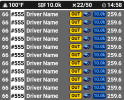
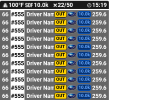
Added option to change width of Relative overlay

diff --git a/Plugin/SettingsControl.xaml b/Plugin/SettingsControl.xaml
@@ -18,7 +18,7 @@
 
 <UserControl x:Class="benofficial2.Plugin.SettingsControl" xmlns="http://schemas.microsoft.com/winfx/2006/xaml/presentation" xmlns:x="http://schemas.microsoft.com/winfx/2006/xaml" xmlns:converter="http://metro.mahapps.com/winfx/xaml/iconpacks" xmlns:d="http://schemas.microsoft.com/expression/blend/2008" xmlns:iconpacks="clr-namespace:MahApps.Metro.IconPacks;assembly=MahApps.Metro.IconPacks.Material" xmlns:local="clr-namespace:benofficial2.Plugin" xmlns:mc="http://schemas.openxmlformats.org/markup-compatibility/2006" xmlns:styles="clr-namespace:SimHub.Plugins.Styles;assembly=SimHub.Plugins" xmlns:ui="clr-namespace:SimHub.Plugins.UI;assembly=SimHub.Plugins" mc:Ignorable="d">
     <ScrollViewer>
-        <Grid Height="3614">
+        <Grid Height="4000">
             <Grid.ColumnDefinitions>
                 <ColumnDefinition Width="44*"/>
                 <ColumnDefinition Width="377*"/>
@@ -239,6 +239,11 @@
                             IsChecked="{Binding Plugin.Modules[RelativeModule].Settings.HighlightPlayerRow, Mode=TwoWay, UpdateSourceTrigger=PropertyChanged}">
                             Highlight player row
                         </styles:SHToggleCheckbox>
+
+                        <StackPanel Orientation="Horizontal">
+                            <ui:TitledSlider HorizontalAlignment="Left" Width="400" Title="Width (%)" Maximum="100" Minimum="0" Value="{Binding Plugin.Modules[RelativeModule].Settings.Width, Mode=TwoWay, UpdateSourceTrigger=PropertyChanged}"
+                                ToolTip="Maximum number of visible rows ahead and behind the player"/>
+                        </StackPanel>
 
                         <StackPanel Orientation="Horizontal">
                             <ui:TitledSlider HorizontalAlignment="Left" Width="400" Title="Max Row Count (Ahead and Behind)" Maximum="5" Minimum="1" Value="{Binding Plugin.Modules[RelativeModule].Settings.MaxRows, Mode=TwoWay, UpdateSourceTrigger=PropertyChanged}"

diff --git a/Plugin/Modules/Relative.cs b/Plugin/Modules/Relative.cs
@@ -28,6 +28,7 @@ namespace benofficial2.Plugin
 {
     public class RelativeSettings : ModuleSettings
     {
+        public int Width { get; set; } = 34;
         public int MaxRows { get; set; } = 3;
         public bool HeaderVisible { get; set; } = true;
         public int HeaderOpacity { get; set; } = 90;
@@ -95,6 +96,7 @@ namespace benofficial2.Plugin
             _carModule = plugin.GetModule<CarModule>();
 
             Settings = plugin.ReadCommonSettings<RelativeSettings>("RelativeSettings", () => new RelativeSettings());
+            plugin.AttachDelegate(name: "Relative.Width", valueProvider: () => Settings.Width);
             plugin.AttachDelegate(name: "Relative.MaxRows", valueProvider: () => Settings.MaxRows);
             plugin.AttachDelegate(name: "Relative.HeaderVisible", valueProvider: () => Settings.HeaderVisible);
             plugin.AttachDelegate(name: "Relative.HeaderOpacity", valueProvider: () => Settings.HeaderOpacity);
